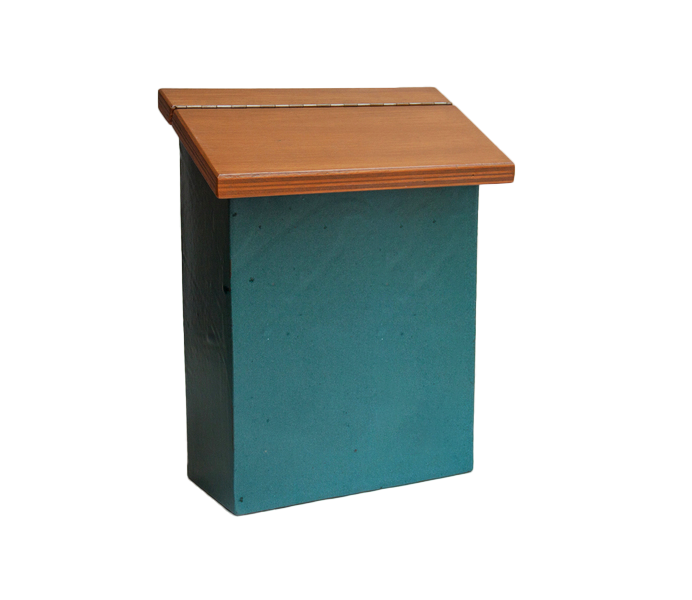
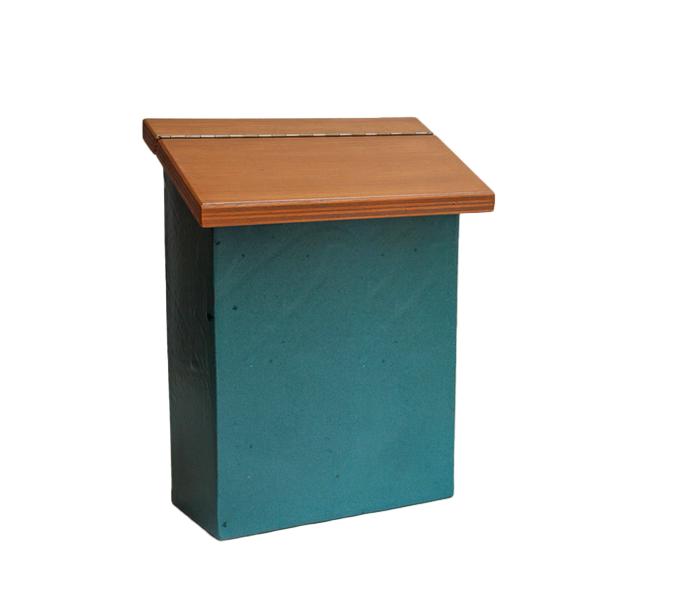
implemented color selector for bases

Changed region(s): [[0.1821, 0.12, 0.7587, 0.9]]

diff --git a/src/App.tsx b/src/App.tsx
@@ -1,25 +1,33 @@
-import base from "./img/base-blue.png";
 import "./App.css";
-import { useState } from 'react';
+import { useState } from "react";
 import Heading from "./components/configurator/heading";
 import Checkbox from "./components/configurator/checkbox";
 import AddStampBox from "./components/configurator/add_stamp_box";
-import { stampsDatabase } from "./utils/stamps_database";
+import { baseDatabase, stampsDatabase } from "./utils/stamps_database";
 import StampList from "./components/configurator/stamp_list";
 import StampsImageOverlay from "./components/image/stamps_image_overlay";
-import { Stamp } from './model/image_data_models' 
+import { Stamp } from "./model/image_data_models";
 import BaseColorList from "./components/configurator/base_color_list";
 import { BaseColor } from "./utils/enums";
 
 function App() {
-
   const [baseColor, setBaseColor] = useState<BaseColor>(BaseColor.Blue);
-  const [stamps, setStamps] = useState<(Stamp | null)[]>([null,null,null,null,null,null,null,null,null]);
+  const [stamps, setStamps] = useState<(Stamp | null)[]>([
+    null,
+    null,
+    null,
+    null,
+    null,
+    null,
+    null,
+    null,
+    null,
+  ]);
   const [nameField, setNameField] = useState<boolean>(false);
 
   function addNewStamp(): void {
     for (let i = 0; i < 9; i++) {
-      if(stamps[i] == null){
+      if (stamps[i] == null) {
         const newArray = stamps.slice(); // copy the array
         newArray[i] = stampsDatabase[0];
         setStamps(newArray);
@@ -39,27 +47,39 @@ function App() {
     newArray[newPosition] = newArray[oldPosition];
     newArray[oldPosition] = null;
     setStamps(newArray);
-    console.log(stamps)
+    console.log(stamps);
+  }
+
+  function getBase(): string {
+    return baseDatabase.find((e) => e.enum === baseColor)?.image!;
   }
 
   return (
     <div className="bg-gray-800 h-screen">
-    <div className="flex flex-wrap">
-      <div className="bg-white rounded-xl m-5">
-        <div className="relative">
-          <img className="relative top-0 left-0" src={base} alt="Briefkasten" />
-          <StampsImageOverlay stamps={stamps} />
+      <div className="flex flex-wrap">
+        <div className="bg-white rounded-xl m-5">
+          <div className="relative">
+            <img
+              className="relative top-0 left-0"
+              src={getBase()}
+              alt="Briefkasten"
+            />
+            <StampsImageOverlay stamps={stamps} />
+          </div>
         </div>
-      </div>
-      <div className="bg-white rounded-xl m-5 p-5">
-        <Heading text="Grundfarbe"/>
-        <BaseColorList />
-        <Heading text="Stempel"/>
-        <StampList stamps={stamps} onRemove={removeStamp} onPositionChange={moveStampToNewPosition}/>
-        <AddStampBox onClick={addNewStamp}/>
-        <Heading text="Namensschild"/>
-        <Checkbox checked={nameField} setChecked={setNameField}/>
-      </div>
+        <div className="bg-white rounded-xl m-5 p-5">
+          <Heading text="Grundfarbe" />
+          <BaseColorList onClick={setBaseColor} baseColor={baseColor} />
+          <Heading text="Stempel" />
+          <StampList
+            stamps={stamps}
+            onRemove={removeStamp}
+            onPositionChange={moveStampToNewPosition}
+          />
+          <AddStampBox onClick={addNewStamp} />
+          <Heading text="Namensschild" />
+          <Checkbox checked={nameField} setChecked={setNameField} />
+        </div>
       </div>
     </div>
   );

diff --git a/src/components/configurator/base_color_list.tsx b/src/components/configurator/base_color_list.tsx
@@ -1,16 +1,21 @@
-import React from 'react'
-import { BaseColor } from '../../utils/enums'
-import BaseColorThumbnail from './base_color_thumbnail'
+import React from "react";
+import { BaseColor } from "../../utils/enums";
+import BaseColorThumbnail from "./base_color_thumbnail";
 
-const BaseColorList = () => {
-    return (
-        <div className="flex">
-            <BaseColorThumbnail onClick={() => {}} colorClass="bg-gazeblue"/>
-            <BaseColorThumbnail onClick={() => {}} colorClass="bg-gazeblue"/>
-            <BaseColorThumbnail onClick={() => {}} colorClass="bg-gazeblue"/>
-            <BaseColorThumbnail onClick={() => {}} colorClass="bg-gazeblue"/>
-        </div>
-    )
+interface BaseColorListProps {
+  onClick: Function;
+  baseColor: BaseColor;
 }
 
-export default BaseColorList
+const BaseColorList = ({onClick, baseColor}: BaseColorListProps) => {
+  return (
+    <div className="flex">
+      <BaseColorThumbnail onClick={onClick} baseColor={baseColor} colorClass={BaseColor.Blue} />
+      <BaseColorThumbnail onClick={onClick} baseColor={baseColor} colorClass={BaseColor.White} />
+      <BaseColorThumbnail onClick={onClick} baseColor={baseColor} colorClass={BaseColor.Grey} />
+      <BaseColorThumbnail onClick={onClick} baseColor={baseColor} colorClass={BaseColor.Green} />
+    </div>
+  );
+};
+
+export default BaseColorList;

diff --git a/src/utils/stamps_database.tsx b/src/utils/stamps_database.tsx
@@ -1,4 +1,9 @@
 import { Stamp } from "../model/image_data_models";
+import baseBlue from '../img/base-blue.png';
+import baseWhite from '../img/base-white.png';
+import baseGrey from '../img/base-grey.png';
+import baseGreen from '../img/base-green.png';
+import { BaseColor } from "./enums";
 
 export const stampsDatabase: Stamp[] = [
     {
@@ -29,18 +34,26 @@ export const colorDatabase: Stamp[] = [
 export const baseDatabase: Stamp[] = [
     {
         imageName: "base-blue.png",
+        image: baseBlue,
         name: "Blau",
+        enum: BaseColor.Blue,
     },
     {
         imageName: "base-white.png",
+        image: baseWhite,
         name: "Weiß",
+        enum: BaseColor.White,
     },
     {
         imageName: "base-grey.png",
+        image: baseGrey,
         name: "Grau",
+        enum: BaseColor.Grey,
     },
     {
         imageName: "base-green.png",
+        image: baseGreen,
         name: "Grün",
+        enum: BaseColor.Green,
     },
 ]

diff --git a/src/components/configurator/base_color_thumbnail.tsx b/src/components/configurator/base_color_thumbnail.tsx
@@ -2,16 +2,13 @@ import React from "react";
 import { BaseColor } from "../../utils/enums";
 
 interface ColorThumbnailProps {
-  colorClass: String;
+  colorClass: BaseColor;
+  baseColor: BaseColor;
   onClick: Function;
 }
 
-const BaseColorThumbnail = ({ colorClass }: ColorThumbnailProps) => {  return (
-    <div className={"h-16 w-16 m-1 border-4 border-gray-800 rounded-full bg-glazeblue " + colorClass}>
-      {
-        //todo image from image database
-      }
-    </div>
+const BaseColorThumbnail = ({ colorClass, onClick, baseColor }: ColorThumbnailProps) => {  return (
+    <div className={`h-16 w-16 m-1 rounded-full bg-center ${colorClass} ${baseColor === colorClass && 'border-4 border-gray-800'}`} onClick={() => onClick(colorClass)}></div>
   );
 };
 

diff --git a/tailwind.config.js b/tailwind.config.js
@@ -7,6 +7,8 @@ module.exports = {
       backgroundImage: {
         'glazeblue': "url('./img/color-blue.png')",
         'glazewhite': "url('./img/color-white.png')",
+        'glazegrey': "url('./img/color-grey.png')",
+        'glazegreen': "url('./img/color-green.png')",
        }
     },
   },

diff --git a/src/model/image_data_models.tsx b/src/model/image_data_models.tsx
@@ -1,9 +1,13 @@
+import { BaseColor } from "../utils/enums";
+
 export interface StampPosition {
   top: number;
   left: number;
 }
 
 export interface Stamp {
-  imageName: String;
-  name: String;
+  imageName: string;
+  image?: string;
+  name: string;
+  enum?: BaseColor;
 }

diff --git a/src/utils/enums.tsx b/src/utils/enums.tsx
@@ -1,6 +1,6 @@
 export enum BaseColor {
-    Blue = 'blue',
-    White = 'white',
-    Grey = 'grey',
-    Green = 'green',
+    Blue = 'bg-glazeblue',
+    White = 'bg-glazewhite',
+    Grey = 'bg-glazegrey',
+    Green = 'bg-glazegreen',
 }
